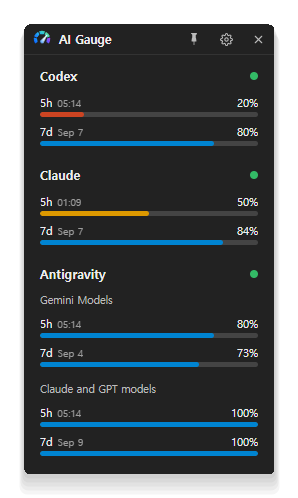
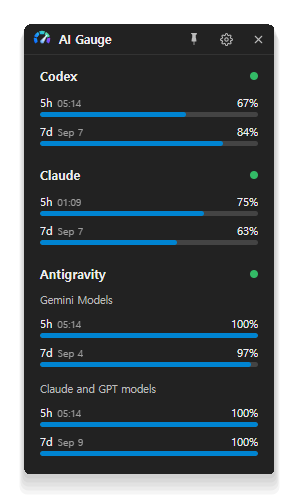
Polish settings UI and prepare v0.5.0 release
- Add independent Enabled checkboxes for Warning and Critical thresholds
- Remove threshold dots and apply threshold text colors directly
- Replace theme text buttons with compact Sun/Moon/Monitor SVG icon buttons
- Unify control element heights to 24px and center-align select/input texts
- Apply brand accent outline for focused inputs/select and suppress red invalid outline
- Bump VERSION to v0.5.0

diff --git a/frontend/app.js b/frontend/app.js
@@ -75,8 +75,8 @@ const defaultConfig = {
   theme: 'system',
   refreshInterval: 120,
   thresholds: {
-    warning: 50,
-    critical: 20
+    warning: { enabled: true, value: 50 },
+    critical: { enabled: true, value: 20 }
   }
 };
 
@@ -89,14 +89,21 @@ function normalizeProviderOrder(value) {
   return order;
 }
 
+function normalizeThreshold(raw, defaultThreshold, min, max) {
+  const isObj = typeof raw === 'object' && raw !== null;
+  const rawValue = Number(isObj ? raw.value : raw);
+  const value = Number.isFinite(rawValue) && rawValue >= min && rawValue <= max
+    ? Math.round(rawValue) : defaultThreshold.value;
+  const enabled = isObj && typeof raw.enabled === 'boolean' ? raw.enabled : true;
+  return { enabled, value };
+}
+
 function normalizeConfig(value) {
-  const warningValue = Number(value?.thresholds?.warning);
-  const criticalValue = Number(value?.thresholds?.critical);
-  const warning = Number.isFinite(warningValue) && warningValue >= 1 && warningValue <= 100
-    ? warningValue : defaultConfig.thresholds.warning;
-  let critical = Number.isFinite(criticalValue) && criticalValue >= 0 && criticalValue <= 99
-    ? criticalValue : defaultConfig.thresholds.critical;
-  if (critical >= warning) critical = Math.max(0, warning - 1);
+  const warning = normalizeThreshold(value?.thresholds?.warning, defaultConfig.thresholds.warning, 1, 100);
+  const critical = normalizeThreshold(value?.thresholds?.critical, defaultConfig.thresholds.critical, 0, 99);
+  if (warning.enabled && critical.enabled && critical.value >= warning.value) {
+    critical.value = Math.max(0, warning.value - 1);
+  }
 
   const theme = value?.theme === 'auto' ? 'system' : value?.theme;
   return {
@@ -120,12 +127,10 @@ try {
   config = normalizeConfig(defaultConfig);
 }
 
-let warningThreshold = config.thresholds.warning;
-let criticalThreshold = config.thresholds.critical;
-
 function applyLimitState(barElement, remaining) {
-  const state = remaining <= criticalThreshold ? 'critical'
-    : remaining <= warningThreshold ? 'warning' : '';
+  const { warning, critical } = config.thresholds;
+  const state = (critical.enabled && remaining <= critical.value) ? 'critical'
+    : (warning.enabled && remaining <= warning.value) ? 'warning' : '';
   barElement.classList.remove('warning', 'critical');
   if (state) barElement.classList.add(state);
 }
@@ -470,7 +475,9 @@ const pinWindowBtn = document.getElementById('pin-window');
 const themeButtonGroup = document.querySelector('.theme-button-group');
 const refreshPresetSelect = document.getElementById('refresh-preset-select');
 const refreshIntervalInput = document.getElementById('refresh-interval-input');
+const warningEnabledInput = document.getElementById('warning-enabled');
 const warningThresholdInput = document.getElementById('warning-threshold');
+const criticalEnabledInput = document.getElementById('critical-enabled');
 const criticalThresholdInput = document.getElementById('critical-threshold');
 const systemTheme = matchMedia('(prefers-color-scheme: dark)');
 
@@ -659,8 +666,12 @@ function openSettings() {
   renderProviderList();
   refreshIntervalInput.value = refreshInterval;
   updateRefreshPresetSelect(refreshInterval);
-  warningThresholdInput.value = warningThreshold;
-  criticalThresholdInput.value = criticalThreshold;
+  warningEnabledInput.checked = config.thresholds.warning.enabled;
+  warningThresholdInput.value = config.thresholds.warning.value;
+  warningThresholdInput.disabled = !config.thresholds.warning.enabled;
+  criticalEnabledInput.checked = config.thresholds.critical.enabled;
+  criticalThresholdInput.value = config.thresholds.critical.value;
+  criticalThresholdInput.disabled = !config.thresholds.critical.enabled;
   settingsDialog.showModal();
   requestWindowResize();
 }
@@ -682,23 +693,35 @@ document.getElementById('hide-window').addEventListener('click', () => {
 });
 
 function saveThresholds() {
-  if (warningThresholdInput.value === '' || criticalThresholdInput.value === '') return;
-  const warningValue = Number(warningThresholdInput.value);
-  const criticalValue = Number(criticalThresholdInput.value);
-  if (!Number.isFinite(warningValue) || !Number.isFinite(criticalValue)) return;
-  warningThreshold = Math.max(1, Math.min(100, warningValue));
-  criticalThreshold = Math.max(0, Math.min(99, criticalValue));
-  if (criticalThreshold >= warningThreshold) {
-    criticalThreshold = Math.max(0, warningThreshold - 1);
+  const warningEnabled = warningEnabledInput.checked;
+  const criticalEnabled = criticalEnabledInput.checked;
+
+  warningThresholdInput.disabled = !warningEnabled;
+  criticalThresholdInput.disabled = !criticalEnabled;
+
+  const warningVal = Number(warningThresholdInput.value);
+  const criticalVal = Number(criticalThresholdInput.value);
+
+  let warningValue = Number.isFinite(warningVal) ? Math.max(1, Math.min(100, Math.round(warningVal))) : config.thresholds.warning.value;
+  let criticalValue = Number.isFinite(criticalVal) ? Math.max(0, Math.min(99, Math.round(criticalVal))) : config.thresholds.critical.value;
+
+  if (warningEnabled && criticalEnabled && criticalValue >= warningValue) {
+    criticalValue = Math.max(0, warningValue - 1);
   }
-  warningThresholdInput.value = warningThreshold;
-  criticalThresholdInput.value = criticalThreshold;
-  config.thresholds.warning = warningThreshold;
-  config.thresholds.critical = criticalThreshold;
+
+  warningThresholdInput.value = warningValue;
+  criticalThresholdInput.value = criticalValue;
+
+  config.thresholds = {
+    warning: { enabled: warningEnabled, value: warningValue },
+    critical: { enabled: criticalEnabled, value: criticalValue }
+  };
   saveCurrentConfig();
   refreshLimitStates();
 }
 
+warningEnabledInput.addEventListener('change', saveThresholds);
+criticalEnabledInput.addEventListener('change', saveThresholds);
 warningThresholdInput.addEventListener('change', saveThresholds);
 criticalThresholdInput.addEventListener('change', saveThresholds);
 

diff --git a/frontend/index.html b/frontend/index.html
@@ -65,12 +65,24 @@
       <form method="dialog" class="settings-form">
         <div id="provider-list" class="provider-options"></div>
         <div class="threshold-settings">
-          <label class="threshold-setting"><span class="threshold-label"><span
-                class="threshold-dot warning"></span>Warning</span><span class="threshold-value"><input
-                id="warning-threshold" type="number" min="1" max="100" step="1" /><span>%</span></span></label>
-          <label class="threshold-setting"><span class="threshold-label"><span
-                class="threshold-dot critical"></span>Critical</span><span class="threshold-value"><input
-                id="critical-threshold" type="number" min="0" max="99" step="1" /><span>%</span></span></label>
+          <div class="threshold-setting">
+            <label class="threshold-label">
+              <input id="warning-enabled" type="checkbox" />
+              <span class="threshold-text warning">Warning</span>
+            </label>
+            <span class="threshold-value">
+              <input id="warning-threshold" type="number" min="1" max="100" step="1" /><span>%</span>
+            </span>
+          </div>
+          <div class="threshold-setting">
+            <label class="threshold-label">
+              <input id="critical-enabled" type="checkbox" />
+              <span class="threshold-text critical">Critical</span>
+            </label>
+            <span class="threshold-value">
+              <input id="critical-threshold" type="number" min="0" max="99" step="1" /><span>%</span>
+            </span>
+          </div>
         </div>
         <div class="refresh-setting-row">
           <span class="refresh-label">Refresh</span>
@@ -91,9 +103,34 @@
         <div class="theme-setting-row">
           <span class="theme-label">Theme</span>
           <span class="theme-button-group" role="group" aria-label="Theme">
-            <button type="button" class="theme-option-btn" data-theme="light">Light</button>
-            <button type="button" class="theme-option-btn" data-theme="dark">Dark</button>
-            <button type="button" class="theme-option-btn" data-theme="system">System</button>
+            <button type="button" class="theme-option-btn" data-theme="light" title="Light" aria-label="Light">
+              <svg viewBox="0 0 24 24" width="13" height="13" fill="none" stroke="currentColor" stroke-width="2"
+                stroke-linecap="round" stroke-linejoin="round">
+                <circle cx="12" cy="12" r="5"></circle>
+                <line x1="12" y1="1" x2="12" y2="3"></line>
+                <line x1="12" y1="21" x2="12" y2="23"></line>
+                <line x1="4.22" y1="4.22" x2="5.64" y2="5.64"></line>
+                <line x1="18.36" y1="18.36" x2="19.78" y2="19.78"></line>
+                <line x1="1" y1="12" x2="3" y2="12"></line>
+                <line x1="21" y1="12" x2="23" y2="12"></line>
+                <line x1="4.22" y1="19.78" x2="5.64" y2="18.36"></line>
+                <line x1="18.36" y1="5.64" x2="19.78" y2="4.22"></line>
+              </svg>
+            </button>
+            <button type="button" class="theme-option-btn" data-theme="dark" title="Dark" aria-label="Dark">
+              <svg viewBox="0 0 24 24" width="13" height="13" fill="none" stroke="currentColor" stroke-width="2"
+                stroke-linecap="round" stroke-linejoin="round">
+                <path d="M21 12.79A9 9 0 1 1 11.21 3 7 7 0 0 0 21 12.79z"></path>
+              </svg>
+            </button>
+            <button type="button" class="theme-option-btn" data-theme="system" title="System" aria-label="System">
+              <svg viewBox="0 0 24 24" width="13" height="13" fill="none" stroke="currentColor" stroke-width="2"
+                stroke-linecap="round" stroke-linejoin="round">
+                <rect x="2" y="3" width="20" height="14" rx="2" ry="2"></rect>
+                <line x1="8" y1="21" x2="16" y2="21"></line>
+                <line x1="12" y1="17" x2="12" y2="21"></line>
+              </svg>
+            </button>
           </span>
         </div>
         <div class="settings-version">

diff --git a/frontend/style.css b/frontend/style.css
@@ -674,31 +674,57 @@ button {
   display: flex;
   align-items: center;
   gap: 6px;
+  cursor: pointer;
+  user-select: none;
 }
 
-.threshold-dot {
-  width: 7px;
-  height: 7px;
-  border-radius: 50%;
+.threshold-label input[type="checkbox"] {
+  margin: 0;
+  accent-color: var(--base-accent);
+  cursor: pointer;
 }
 
-.threshold-dot.warning {
-  background: var(--base-warning);
+.threshold-text {
+  font-weight: 500;
+  transition: color .15s ease;
 }
 
-.threshold-dot.critical {
-  background: var(--base-critical);
+.threshold-text.warning {
+  color: var(--base-warning);
 }
 
-.threshold-setting input {
-  width: 52px;
+.threshold-text.critical {
+  color: var(--base-critical);
+}
+
+.threshold-setting:has(input[type="checkbox"]:not(:checked)) .threshold-label {
+  opacity: .5;
+}
+
+.threshold-setting:has(input[type="checkbox"]:not(:checked)) .threshold-text {
+  color: var(--muted);
+}
+
+.threshold-setting:has(input[type="checkbox"]:not(:checked)) .threshold-value {
+  opacity: .35;
+}
+
+.threshold-value input {
+  width: 48px;
+  height: 24px;
   box-sizing: border-box;
-  padding: 4px;
+  padding: 2px 4px;
   border: 1px solid var(--border);
   border-radius: 4px;
   background: var(--surface);
   color: var(--text);
-  text-align: right;
+  font-family: inherit;
+  font-size: .75rem;
+  text-align: center;
+}
+
+.threshold-value input:disabled {
+  cursor: not-allowed;
 }
 
 .refresh-setting-row {
@@ -717,13 +743,17 @@ button {
 .refresh-setting-row select {
   flex: 1;
   min-width: 65px;
-  padding: 4px 6px;
+  height: 24px;
+  box-sizing: border-box;
+  padding: 2px 6px;
   border: 1px solid var(--border);
   border-radius: 4px;
   background: var(--surface);
   color: var(--text);
   font-family: inherit;
   font-size: .75rem;
+  text-align: center;
+  text-align-last: center;
 }
 
 .refresh-setting-row .threshold-input-wrap {
@@ -736,15 +766,32 @@ button {
 
 .refresh-setting-row input {
   width: 48px;
+  height: 24px;
   box-sizing: border-box;
-  padding: 4px;
+  padding: 2px 4px;
   border: 1px solid var(--border);
   border-radius: 4px;
   background: var(--surface);
   color: var(--text);
   font-family: inherit;
   font-size: .75rem;
-  text-align: right;
+  text-align: center;
+}
+
+.threshold-value input:focus,
+.refresh-setting-row select:focus,
+.refresh-setting-row input:focus {
+  outline: none;
+  border-color: var(--base-accent);
+  box-shadow: 0 0 0 1px var(--base-accent);
+}
+
+.threshold-value input:user-invalid,
+.threshold-value input:invalid,
+.refresh-setting-row input:user-invalid,
+.refresh-setting-row input:invalid {
+  outline: none;
+  box-shadow: none;
 }
 
 .theme-setting-row {
@@ -765,7 +812,12 @@ button {
 }
 
 .theme-option-btn {
-  padding: 4px 8px;
+  display: inline-flex;
+  align-items: center;
+  justify-content: center;
+  width: 28px;
+  height: 24px;
+  padding: 0;
   border: 0;
   border-left: 1px solid var(--border);
   /* The group's own border-radius + overflow:hidden rounds the outer
@@ -776,9 +828,11 @@ button {
   border-radius: 0;
   background: var(--surface);
   color: var(--muted);
-  font-family: inherit;
-  font-size: .72rem;
   cursor: pointer;
+}
+
+.theme-option-btn svg {
+  display: block;
 }
 
 .theme-option-btn:first-child {
